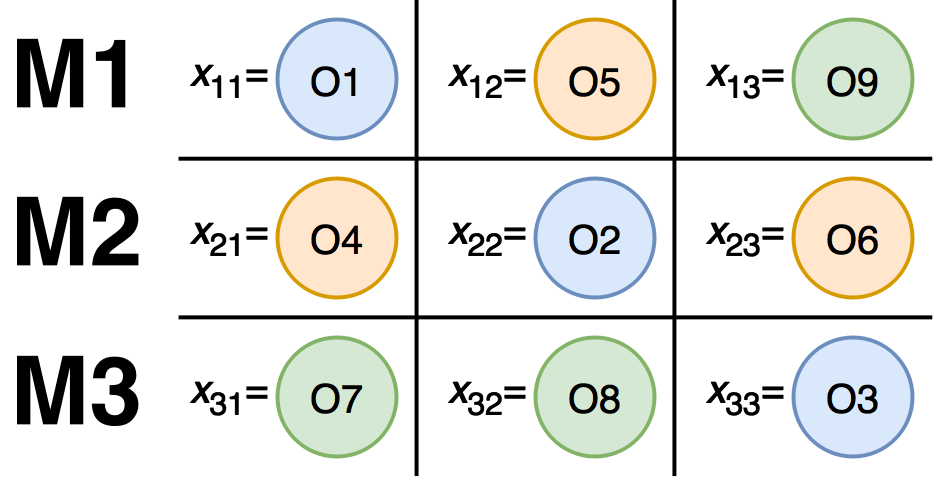
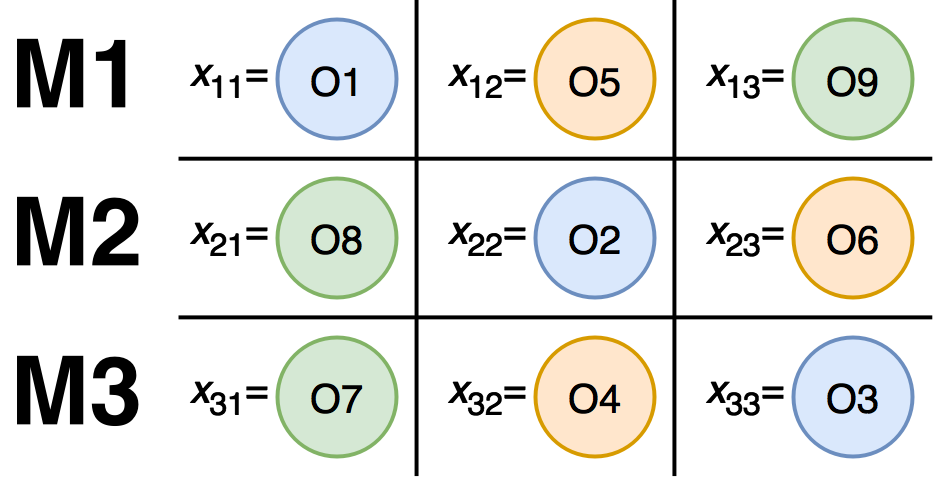
P4-2017: Report WIP

Changed region(s): [[0.5571, 0.6846, 0.7118, 0.9647], [0.2785, 0.3423, 0.4333, 0.6224]]

diff --git a/project_4_2017/report/permve-ntnu-it3708-project-4-2017.tex b/project_4_2017/report/permve-ntnu-it3708-project-4-2017.tex
@@ -12,6 +12,7 @@
 \usepackage{sectsty}
 \allsectionsfont{\centering \normalfont\scshape}
 
+\usepackage{amssymb}
 \usepackage{acronym}
 \usepackage{booktabs}
 \usepackage{caption}
@@ -73,7 +74,22 @@
 
 % Representation of solutions (individual & chromosome) for each of the three algorithm representations. Using figure(s) for solution is a must. For each of the three algorithms, how do you build the schedule from respective solutions? (1.5p)
 
-Whatever.
+\section*{Schedule Representation}
+
+All three optimizers utilize the same schedule representation as shown in Figure~\ref{figure:representation}. This representation is able to represent both infeasible and feasible solutions to the \ac{JSSP}. Depending on context in the implementation, this representation either represents the job preference for each machine in a solution, or it represents a solution to the \ac{JSSP} directly. For both the \ac{PSO} and the \ac{BA}, random individuals are generated as part of the search. This is done by building a schedule with a randomly permuted job ordering for each machine. If treated as a solution directly, such a solution may be infeasible as machines can deadlock. To ensure that all created solutions are feasible, each possibly infeasible solution is ``developed'' by treating the representation as a preference description. The G\&T~algorithm as described in \cite{sha2006hybrid} details how a preference description can be used to generate an active schedule which must be feasible.
+
+The G\&T algorithm can be described in four steps:
+
+\begin{enumerate}
+    \item Initialize schedule $S=\varnothing$; $\Omega$ is initialized to contain all operations without job predecessors.
+    \item Find $o^*=\arg \min_{o \in \Omega} f_o$, where $f_o$ is the earliest completion time for operation $o$; $f_o = s_o + p_o$, where $s_o$ is the earliest starting time for operation $o$, and $p_o$ is the processing time for operation $o$.
+    \item \begin{enumerate}
+        \item Identify conflict set $C = \{ o \in \Omega \vert m_o = m_{o^*} \land s_o < f_{o^*} \}$, where $m_o$ is the machine associated with $o$.
+        \item Select $o \in C$ according to the preference specified in the encoded representation.
+        \item Add $o$ to schedule $S$.
+    \end{enumerate}
+    \item If schedule $S$ is incomplete; remove $o$ from $\Omega$ and add its immediate job successor to $\Omega$ and continue from step~2.
+\end{enumerate}
 
 {
 \vspace{0.3cm}
@@ -83,10 +99,6 @@ Whatever.
 \label{figure:representation}
 \vspace{0.3cm}
 }
-
-\section*{Schedule Representation}
-
-All three optimizers utilize the same schedule representation as shown in Figure~\ref{figure:representation}. This representation is able to represent both infeasible and feasible solutions to the \ac{JSSP}. Depending on context in the implementation, this representation either represents the job preference for each machine in a solution, or it represents a solution to the \ac{JSSP} directly. For both the \ac{PSO} and the \ac{BA}, random individuals are generated as part of the search. This is done by building a schedule with a randomly permuted job ordering for each machine. If treated as a solution directly, such a solution may be infeasible as machines can deadlock. To ensure that all created solutions are feasible, each possibly infeasible solution is ``developed'' by treating the representation as a preference description. The G\&T~algorithm as described in \cite{sha2006hybrid} details how a preference description can be used to generate an active schedule which must be feasible.
 
 \section*{\acl{PSO}}
 
@@ -98,13 +110,12 @@ All three optimizers utilize the same schedule representation as shown in Figure
 
 \section*{\acl{BA}}
 
-
-
 % TODO Figure explaining BA representation
 
-BA is the
-
 \section*{\acl{TS}}
+
+\bibliographystyle{unsrt}
+\bibliography{references.bib}
 
 {
 \begin{minipage}{\linewidth{}}
